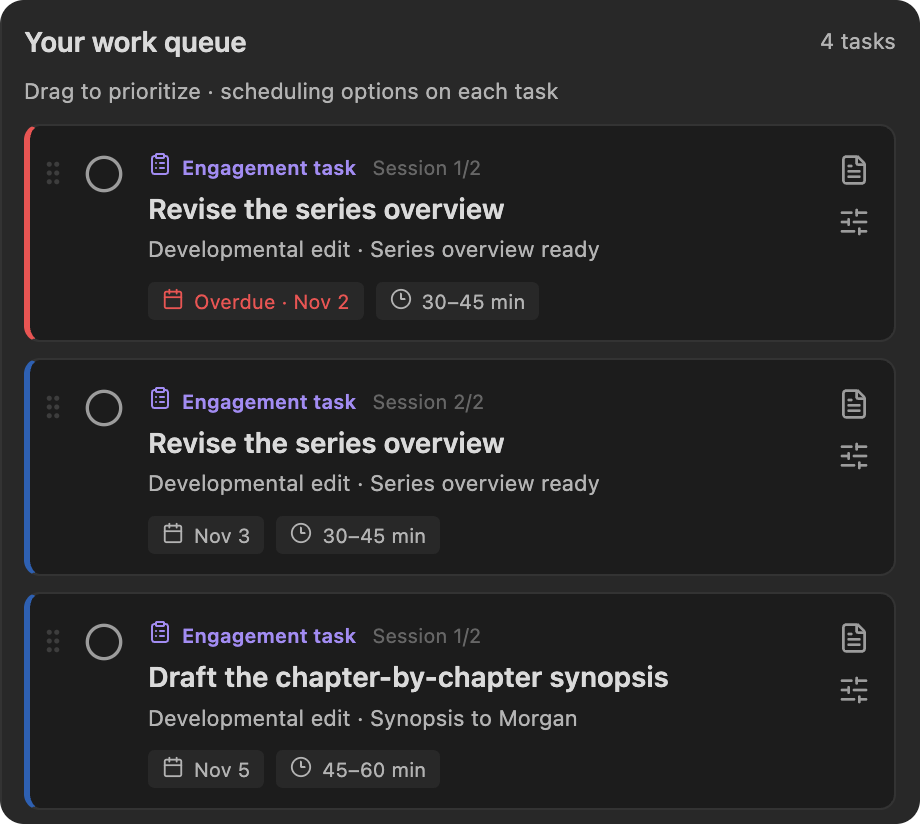
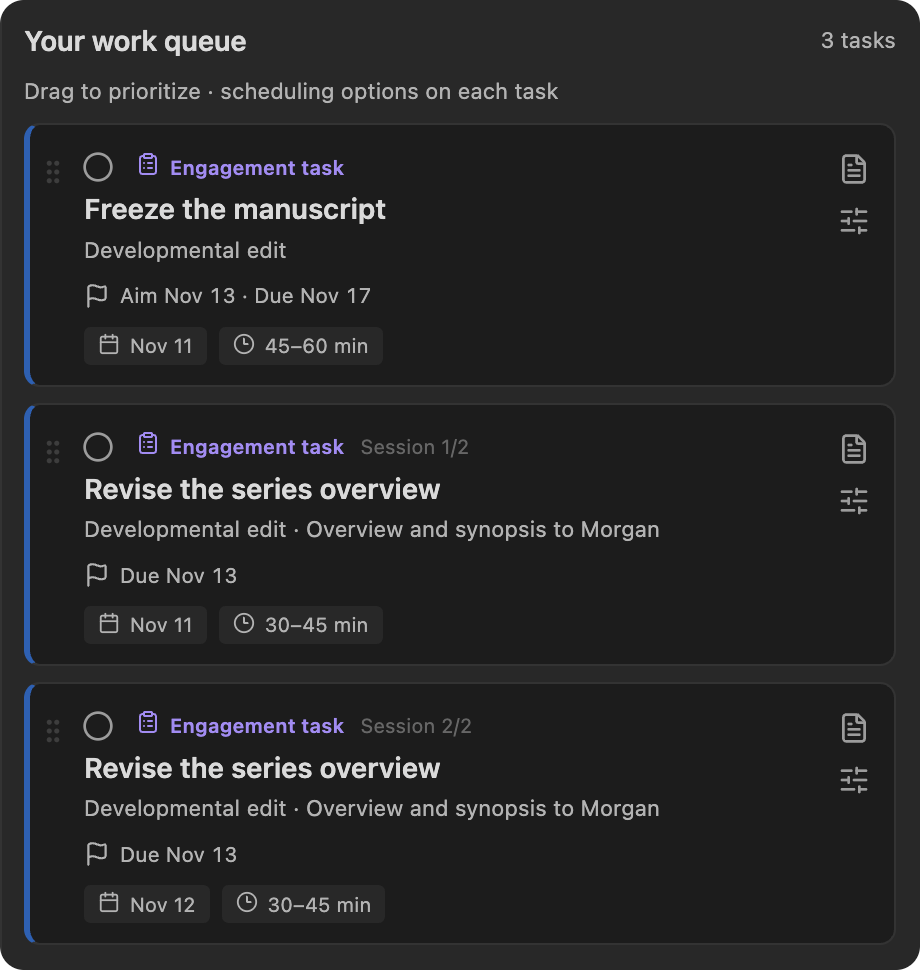
Retake the wiki screenshots that 3.3.0 made out of date
Four images showed screens that have since changed: the engagement overview
had no engagement bar, notes icon or cushion; Today's Now card had no Open
engagement button; the queue cards still had the circle in its own column;
and the response window was the old single-column list. They are retaken
from a synthetic vault with the fictional editor Morgan Lee.

The engagement overview ends at Next up as before, and the Documents
section, the main change of this release, gets its own image in the
Documents part of the Editor Engagement page. The alt text follows each new
image, and the screenshot record notes how they were made, including a
4-day cushion used for the queue shot and an overlap seen on the engagement
bar at a narrower sidebar.

diff --git a/wiki/Editor-Engagement.md b/wiki/Editor-Engagement.md
@@ -1,6 +1,6 @@
 Keep an editor’s agreed dates, the documents you send, your tasks, shared milestones, and activity history together for the active book. Run **Open editor engagement**, or choose **Editor engagement** from the panel’s mode selector. **Open editorial project in workspace** opens the same plan in a full workspace tab.
 
-<p align="center"><img src="images/panel-editor-engagement.png" alt="Editor engagement overview with the editor, a countdown to the agreed start date, and Next up showing an overdue session in red, its document's word limit and the next milestone" width="460"></p>
+<p align="center"><img src="images/panel-editor-engagement.png" alt="Editor engagement overview for Morgan Lee: the start date six days away, the engagement bar with your preparation, the editor's stretch and your questions, a cushion bar with six days left, and Next up with the next session and the next date due" width="460"></p>
 
 ## Create an engagement
 
@@ -40,6 +40,8 @@ Use **Add document** for what you prepare for your editor: a query letter, a syn
 A word limit caps the working document, a query letter at 500 words, say. Wherever that document appears, a bar shows its current prose words against the limit and turns red once over; the count leaves out properties, headings, and hidden comments. **Open working document** on the document's row, **Open document** in the schedule, or **Start** on Today opens it.
 
 A document's tasks sit in its card, under its title. Add one with the list icon on the document's row, or choose the document in a task's **Document** field. Tasks with no document are listed under **Other tasks**. Click a task's circle and choose **Done** or **Open**; opening the menu changes nothing until you choose, and finished tasks are struck through.
+
+<p align="center"><img src="images/engagement-documents.png" alt="Documents section with four cards: a query letter sent to Morgan Lee as a Word file with a copy kept, and three documents not sent yet, each with its due date, word count, tasks and Record sending link" width="450"></p>
 
 ### Record sending a document
 

diff --git a/docs/engineering/WIKI-SCREENSHOTS.md b/docs/engineering/WIKI-SCREENSHOTS.md
@@ -266,3 +266,31 @@ recorded the opening total). No Author-vault content was used.
   now showing the Moved or renamed manuscript row below Include subfolders;
   640 × 796 CSS px, rounded at 44 to match the modal's corners. Focus was
   cleared before capture.
+
+## 3.3.0 refresh — November 11, 2026
+
+Captured from main at `845913e` in an isolated desktop Obsidian, dark theme,
+2x device scale, in a new synthetic vault (`scratchpad/capture/vault-wiki`):
+made-up scenes, Morgan Lee's developmental edit starting Nov 17 with documents
+due Nov 1, Nov 13 and Nov 17, author name Alex Rivera, and the "Draft Book 2"
+word goal with today's words written through the vault after the plugin
+recorded the opening total. Morgan Lee's copy edit was a synthetic .docx
+brought in through Your editor's Word file. No Author-vault content was used.
+
+- `panel-editor-engagement.png` — 460 CSS px sidebar, through Next up: the
+  placard with the engagement bar (preparation under way, a combined mark),
+  the notes icon lit, and the cushion bar with six days left.
+- `engagement-documents.png` (new) — the Documents section on its own, cropped
+  from a 435 CSS px sidebar capture: one sent card, three not sent, the
+  Manuscript card's amber Aim · Due line. 450 × 750 CSS px.
+- `panel-today.png` — the Now card inside its cushion, with Open engagement;
+  Up next; Your goal.
+- `plan-queue-cards.png` — three engagement-task cards with the circle in the
+  kind line. Finish early by was set to 4 days for this capture so the plain
+  Aim · Due label shows; at 14 the card shows the cushion bar instead.
+- `response-window.png` — the thread-card layout with chips and the pinned
+  bar; the window is now 720 CSS px wide (shown at 560), rounded at 48.
+
+Seen in another capture, not published: at a 435 CSS px sidebar the
+engagement bar's combined mark at the start date and the bare milestone just
+after it overlapped.

diff --git a/wiki/Revision-Plan.md b/wiki/Revision-Plan.md
@@ -35,7 +35,7 @@ A date your editor is waiting on, the engagement start or a return deadline, get
 
 Each card in the queue shows its kind, title, context, and its date and estimate (dashed when not yet set). Click the circle beside its kind and choose **Done** to finish the session, or **Open** to reopen it; opening the menu changes nothing until you choose. At the right, **Schedule & options** opens the card's scheduling controls; clicking the date or estimate opens them too. Batches, Editorialism directives, and pending edits also get **Open source**, which takes you to the underlying feedback. An engagement task that works on a document gets **Open document**, which opens that document.
 
-<p align="center"><img src="images/plan-queue-cards.png" alt="Work queue with three engagement-task cards: a status circle, the kind and session, title and context, date and estimate chips, and Open document and Schedule &amp; options icons at the right; the first card is overdue, with a red edge and an Overdue date chip" width="460"></p>
+<p align="center"><img src="images/plan-queue-cards.png" alt="Work queue with three engagement-task cards: the status circle beside the kind and session, title and context, the deadline line, such as Aim Nov 13 · Due Nov 17, date and estimate chips, and Open document and Schedule &amp; options icons at the right" width="460"></p>
 
 Marking a session **Done** completes only the planning session: it does not accept a batch suggestion, check off an Editorialism, or remove a Pending edit. Resolve those in their source workflow. Source completion can also make its planned work complete. A batch is complete once every suggestion in it is decided; its memos ride along. A batch holding only memos has nothing to decide, so it stays open until you finish its session.
 

diff --git a/wiki/Importing-Reviews.md b/wiki/Importing-Reviews.md
@@ -269,7 +269,7 @@ When your editor's changes came in from their Word file, Editorialist keeps a co
 - A change you kept as written gets a comment saying **Stet**, with your reason. One you rewrote says **Rewritten another way**. If your editor had explained the change in a comment, this appears as your reply to it.
 - Your editor's tracked changes are left exactly as they were. Most publishers ask authors not to accept or reject a copy editor's changes themselves; a comment saying *stet* is how you mark one you don't want.
 
-<p align="center"><img src="images/response-window.png" alt="Response to Morgan Lee window with a reply to a comment, a reason for a change kept as written, the author's name, and Save in their file" width="560"></p>
+<p align="center"><img src="images/response-window.png" alt="Response to Morgan Lee window: count chips, a change kept as written with the author's reason, a comment with the author's reply, an unanswered comment, and the bar at the bottom with the author's name, Done, Save as a letter and Save in their file" width="560"></p>
 
 The first time, add your name under **Name on your comments**, in the bar beside the buttons. Word shows it on each of your comments. **Save as a letter** still makes the separate response described above, if your editor prefers that.
 

diff --git a/wiki/Working-with-a-Copy-Editor.md b/wiki/Working-with-a-Copy-Editor.md
@@ -73,7 +73,7 @@ When every scene is decided, the completion card leads with **Write your respons
 
 The response window lists every comment and every change you kept or rewrote, scene by scene. Each is a card that reads like a review thread: your passage, then your editor's words, then a box for your reply. Counts at the top show how many changes you accepted, kept as written, rewrote or haven't decided yet, and how many comments you replied to. Replies save as you type, so you can close the window with **Done** and come back.
 
-<p align="center"><img src="images/response-window.png" alt="Response to Morgan Lee window with a reply to a comment, a reason for a change kept as written, the author's name, and Save in their file" width="560"></p>
+<p align="center"><img src="images/response-window.png" alt="Response to Morgan Lee window: count chips, a change kept as written with the author's reason, a comment with the author's reply, an unanswered comment, and the bar at the bottom with the author's name, Done, Save as a letter and Save in their file" width="560"></p>
 
 1. The first time, enter your name under **Name on your comments**. Word shows it on each of your comments. (It is also in **Settings → Configuration → You and your files**.)
 2. Choose **Save in their file**.

diff --git a/wiki/Home.md b/wiki/Home.md
@@ -41,7 +41,7 @@ Line edits supports a full set of scene-level editorial moves:
 
 Use the view name beside the Ed logo to switch modes. Book-scoped modes use the active-book header and **Import**. Author planner shows **Across your vault** and **Add goal**. Today covers all your books and your writing goals together.
 
-<p align="center"><img src="images/panel-today.png" alt="Today view of your books and goals: the session to do now marked overdue in red with its book and its document's word limit, the next session today, and a word-count goal showing words written today and the daily pace to finish on time" width="460"></p>
+<p align="center"><img src="images/panel-today.png" alt="Today view of your books and goals: the session to do now inside its cushion with six days left, with Start, Done and Open engagement, the next session today with its due date, and a word-count goal showing words written today and the daily pace to finish on time" width="460"></p>
 
 | Mode | Use it for |
 |---|---|
